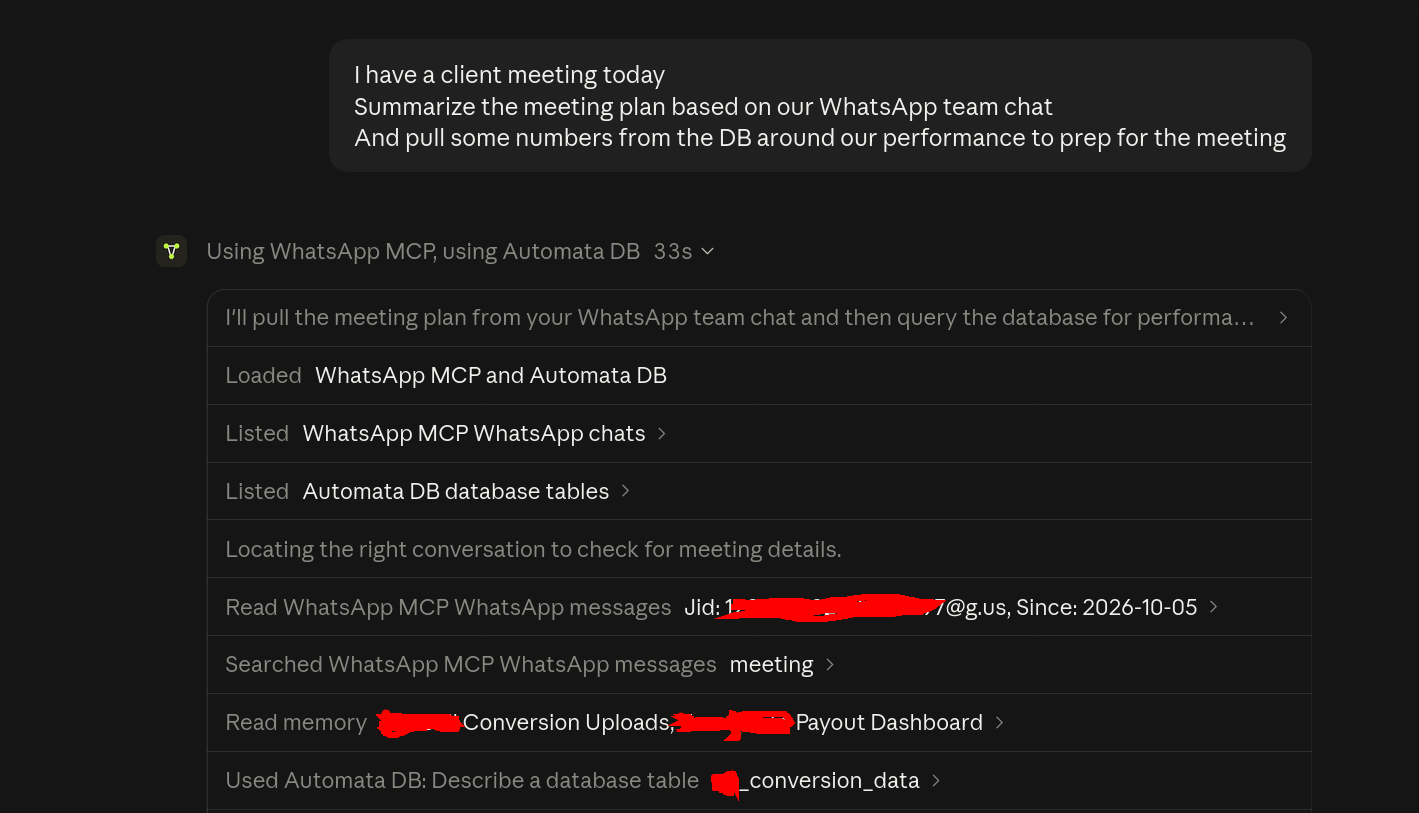
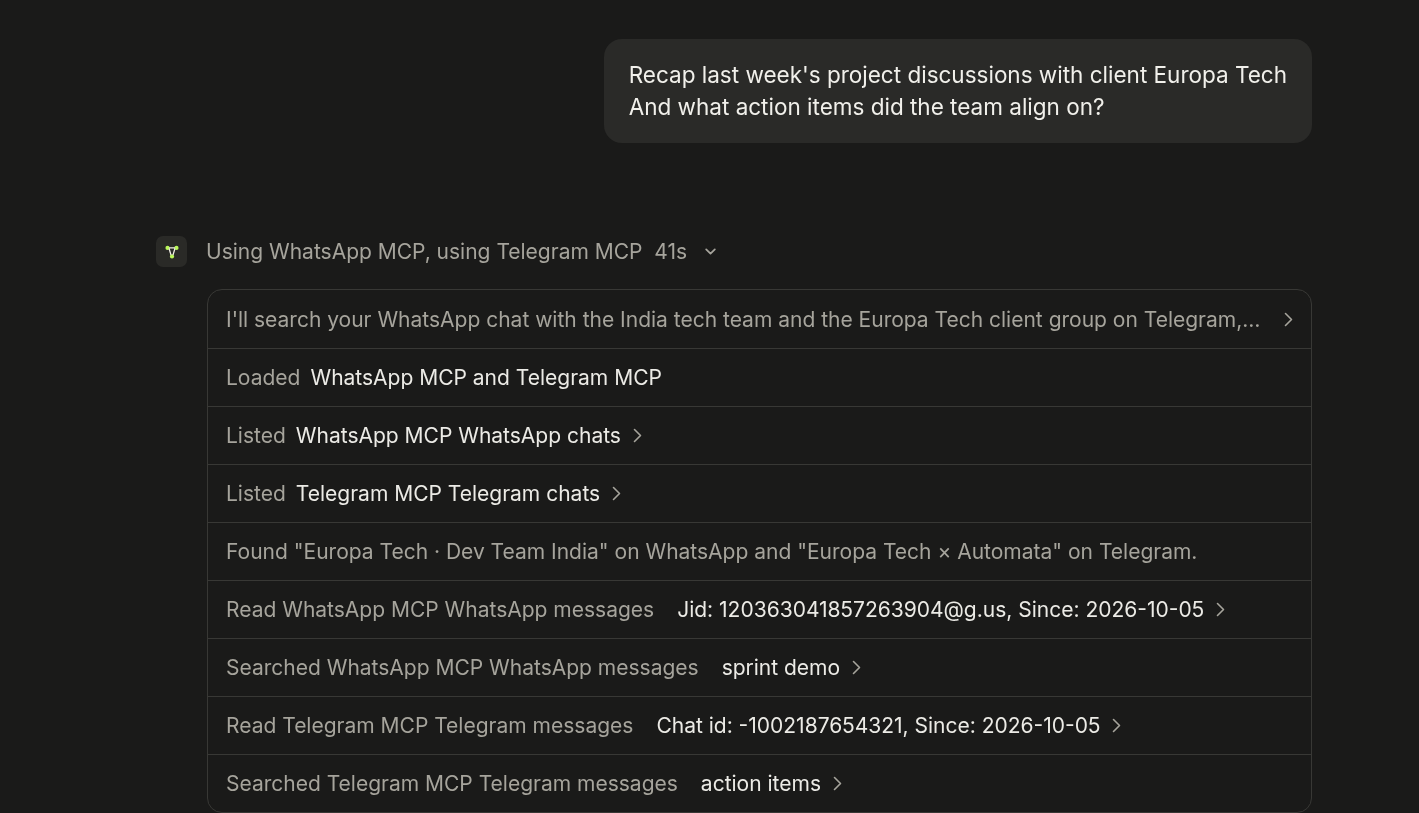
docs: replace censored screenshots with mock data
The chat screenshot now shows Claude recapping a client project from a
WhatsApp team chat and a Telegram client group; the dashboard shows mock
connections with placeholder database hosts.

diff --git a/README.md b/README.md
@@ -28,7 +28,7 @@ Run your own with one click on Railway or with Docker Compose.
 ## Screenshots
 
 <p align="center">
-  <img src="docs/images/claude-chat.png" alt="Claude reading a WhatsApp team chat and querying a database to prepare for a meeting" width="720">
+  <img src="docs/images/claude-chat.png" alt="Claude searching a WhatsApp team chat and a Telegram client group to recap a project and its action items" width="720">
   <br><em>Claude pulls a meeting plan from a WhatsApp group and the numbers from your database, in one answer.</em>
 </p>
 
